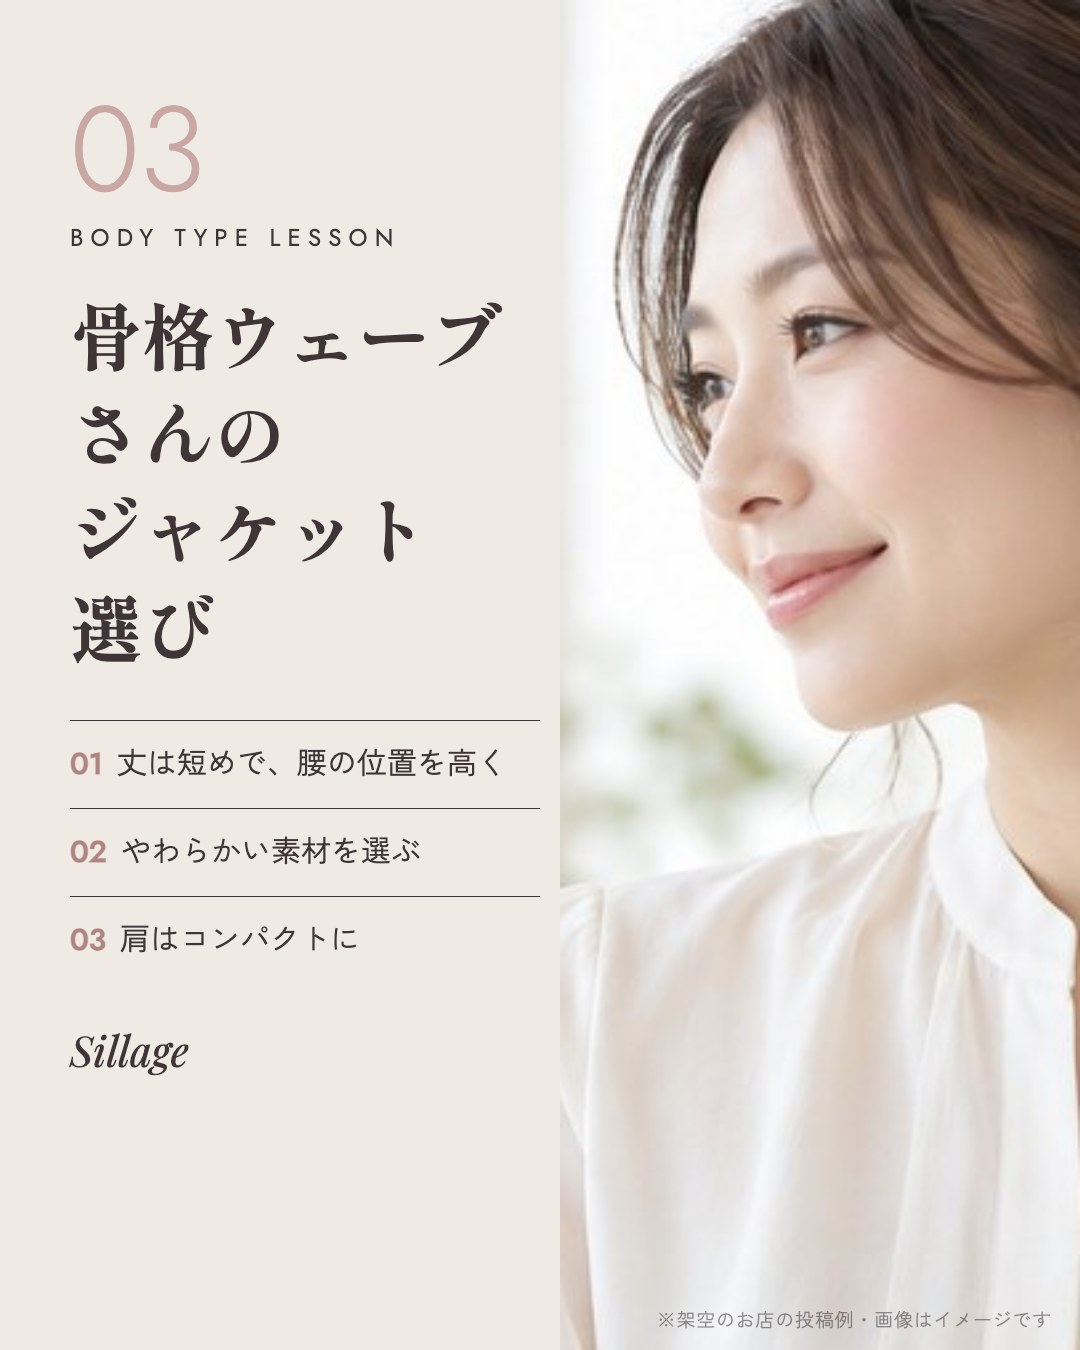
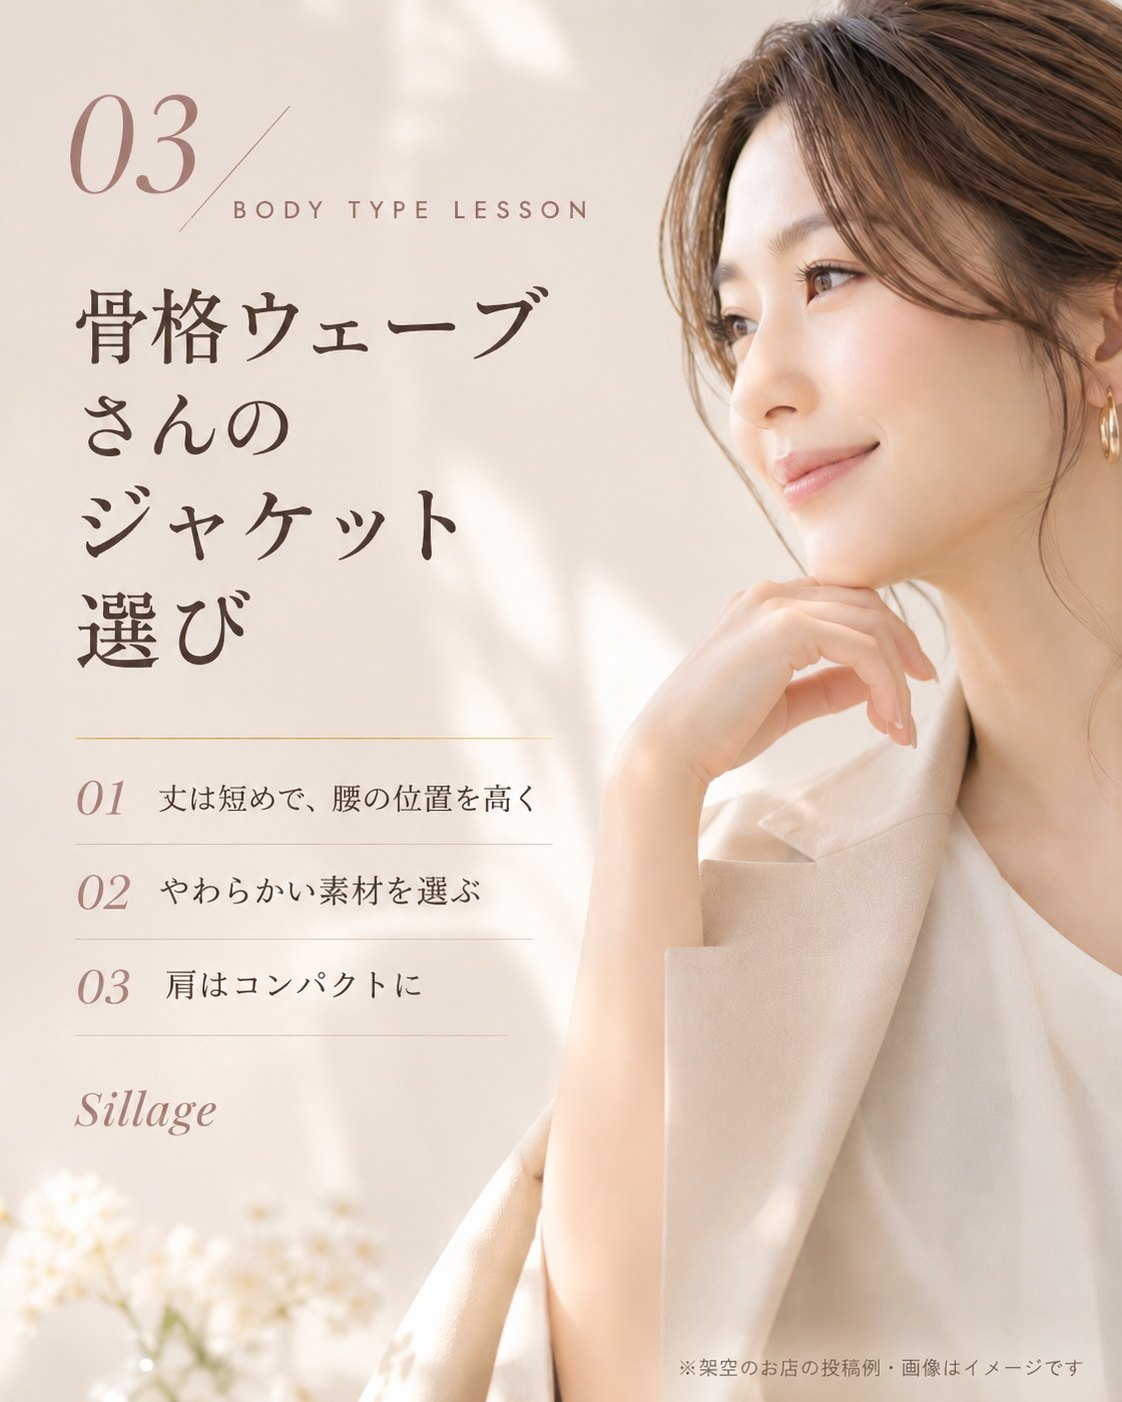
insta 01-03,10-14 GPT remake

diff --git a/samples/insta/index.html b/samples/insta/index.html
@@ -20,7 +20,7 @@ header{display:flex;justify-content:space-between;align-items:center;padding:18p
 .cta{text-align:center;padding:0 20px 30px}.cta a{display:inline-block;background:#7A4E58;color:#fff;border-radius:999px;padding:12px 30px;font-size:14px}</style></head><body>
 <header><a class="brand" href="../../">Muse Web.</a><a class="back" href="../../#service">← サービス一覧へ</a></header>
 <div class="hd"><div class="en">Instagram post</div><h1>インスタ投稿画像</h1><p>保存される内容と、予約につながる一言を。業種ごとに色・文字・レイアウトを変えています。</p><span class="n">サンプル 14点</span></div>
-<div class="grid"><a class="it" href="#v1"><div class="im"><img src="01.jpg" alt="エステサロン｜保存版の夜ケア3ステップ" loading="lazy"></div><div class="bd"><b>エステサロン｜保存版の夜ケア3ステップ</b><span>くすみピンク×明朝・保存したくなる手順</span></div></a><a class="it" href="#v2"><div class="im"><img src="02.jpg" alt="エステサロン｜初回体験のご案内" loading="lazy"></div><div class="bd"><b>エステサロン｜初回体験のご案内</b><span>割引価格を大きく・予約導線つき</span></div></a><a class="it" href="#v3"><div class="im"><img src="03.jpg" alt="エステサロン｜お客さまの声" loading="lazy"></div><div class="bd"><b>エステサロン｜お客さまの声</b><span>写真＋声で安心感を</span></div></a><a class="it" href="#v4"><div class="im"><img src="04.jpg" alt="ネイルサロン｜今月の新作デザイン" loading="lazy"></div><div class="bd"><b>ネイルサロン｜今月の新作デザイン</b><span>ガラスフレンチの手元写真を大きく・明朝で上品に</span></div></a><a class="it" href="#v5"><div class="im"><img src="05.jpg" alt="ネイルサロン｜今週の空き状況" loading="lazy"></div><div class="bd"><b>ネイルサロン｜今週の空き状況</b><span>空き枠を細い罫線の表で見やすく</span></div></a><a class="it" href="#v6"><div class="im"><img src="06.jpg" alt="まつげサロン｜まつげパーマQ&amp;A" loading="lazy"></div><div class="bd"><b>まつげサロン｜まつげパーマQ&amp;A</b><span>よくある質問を落ち着いたカードで</span></div></a><a class="it" href="#v7"><div class="im"><img src="07.jpg" alt="美容室｜乾かし方のコツ" loading="lazy"></div><div class="bd"><b>美容室｜乾かし方のコツ</b><span>番号つきで覚えやすく</span></div></a><a class="it" href="#v8"><div class="im"><img src="08.jpg" alt="美容室｜人気メニュー紹介" loading="lazy"></div><div class="bd"><b>美容室｜人気メニュー紹介</b><span>価格を点線でつないで読みやすく</span></div></a><a class="it" href="#v9"><div class="im"><img src="09.jpg" alt="美容室｜WEB予約のお知らせ" loading="lazy"></div><div class="bd"><b>美容室｜WEB予約のお知らせ</b><span>店内写真の上にシンプルな告知</span></div></a><a class="it" href="#v10"><div class="im"><img src="10.jpg" alt="ジュエリー｜新作コレクション" loading="lazy"></div><div class="bd"><b>ジュエリー｜新作コレクション</b><span>モデル写真で世界観を伝える</span></div></a><a class="it" href="#v11"><div class="im"><img src="11.jpg" alt="タロット占い｜今月の一枚" loading="lazy"></div><div class="bd"><b>タロット占い｜今月の一枚</b><span>夜空色×金のアーチ</span></div></a><a class="it" href="#v12"><div class="im"><img src="12.jpg" alt="ファッションコンサル｜骨格別の選び方" loading="lazy"></div><div class="bd"><b>ファッションコンサル｜骨格別の選び方</b><span>雑誌風の番号レイアウト</span></div></a><a class="it" href="#v13"><div class="im"><img src="13.jpg" alt="脱毛サロン｜回数の目安" loading="lazy"></div><div class="bd"><b>脱毛サロン｜回数の目安</b><span>写真なしでも伝わる図解</span></div></a><a class="it" href="#v14"><div class="im"><img src="14.jpg" alt="ヘッドスパ｜メニューと空き枠" loading="lazy"></div><div class="bd"><b>ヘッドスパ｜メニューと空き枠</b><span>夜のくつろぎ感を写真で</span></div></a></div>
+<div class="grid"><a class="it" href="#v1"><div class="im"><img src="01.jpg" alt="エステサロン｜保存版の夜ケア3ステップ" loading="lazy"></div><div class="bd"><b>エステサロン｜保存版の夜ケア3ステップ</b><span>くすみピンク×明朝・保存したくなる手順</span></div></a><a class="it" href="#v2"><div class="im"><img src="02.jpg" alt="エステサロン｜初回体験のご案内" loading="lazy"></div><div class="bd"><b>エステサロン｜初回体験のご案内</b><span>割引価格を大きく・予約導線つき</span></div></a><a class="it" href="#v3"><div class="im"><img src="03.jpg" alt="エステサロン｜お客さまの声" loading="lazy"></div><div class="bd"><b>エステサロン｜お客さまの声</b><span>写真＋声で安心感を</span></div></a><a class="it" href="#v4"><div class="im"><img src="04.jpg" alt="ネイルサロン｜今月の新作デザイン" loading="lazy"></div><div class="bd"><b>ネイルサロン｜今月の新作デザイン</b><span>ガラスフレンチの手元写真を大きく・明朝で上品に</span></div></a><a class="it" href="#v5"><div class="im"><img src="05.jpg" alt="ネイルサロン｜今週の空き状況" loading="lazy"></div><div class="bd"><b>ネイルサロン｜今週の空き状況</b><span>空き枠を細い罫線の表で見やすく</span></div></a><a class="it" href="#v6"><div class="im"><img src="06.jpg" alt="まつげサロン｜まつげパーマQ&amp;A" loading="lazy"></div><div class="bd"><b>まつげサロン｜まつげパーマQ&amp;A</b><span>よくある質問を落ち着いたカードで</span></div></a><a class="it" href="#v7"><div class="im"><img src="07.jpg" alt="美容室｜乾かし方のコツ" loading="lazy"></div><div class="bd"><b>美容室｜乾かし方のコツ</b><span>番号つきで覚えやすく</span></div></a><a class="it" href="#v8"><div class="im"><img src="08.jpg" alt="美容室｜人気メニュー紹介" loading="lazy"></div><div class="bd"><b>美容室｜人気メニュー紹介</b><span>価格を点線でつないで読みやすく</span></div></a><a class="it" href="#v9"><div class="im"><img src="09.jpg" alt="美容室｜WEB予約のお知らせ" loading="lazy"></div><div class="bd"><b>美容室｜WEB予約のお知らせ</b><span>店内写真の上にシンプルな告知</span></div></a><a class="it" href="#v10"><div class="im"><img src="10.jpg" alt="ジュエリー｜新作コレクション" loading="lazy"></div><div class="bd"><b>ジュエリー｜新作コレクション</b><span>モデル写真で世界観を伝える</span></div></a><a class="it" href="#v11"><div class="im"><img src="11.jpg" alt="タロット占い｜今月の一枚" loading="lazy"></div><div class="bd"><b>タロット占い｜今月の一枚</b><span>くすんだ夜空色×金のアーチ</span></div></a><a class="it" href="#v12"><div class="im"><img src="12.jpg" alt="ファッションコンサル｜骨格別の選び方" loading="lazy"></div><div class="bd"><b>ファッションコンサル｜骨格別の選び方</b><span>雑誌風の番号レイアウト</span></div></a><a class="it" href="#v13"><div class="im"><img src="13.jpg" alt="脱毛サロン｜回数の目安" loading="lazy"></div><div class="bd"><b>脱毛サロン｜回数の目安</b><span>写真なしでも伝わる回数の目安</span></div></a><a class="it" href="#v14"><div class="im"><img src="14.jpg" alt="ヘッドスパ｜メニューと空き枠" loading="lazy"></div><div class="bd"><b>ヘッドスパ｜メニューと空き枠</b><span>夜のくつろぎ感を写真で・空き枠つき</span></div></a></div>
 <div class="lb" id="v1"><a class="x" href="#" aria-label="閉じる"></a><img src="01.jpg" alt="エステサロン｜保存版の夜ケア3ステップ"></div><div class="lb" id="v2"><a class="x" href="#" aria-label="閉じる"></a><img src="02.jpg" alt="エステサロン｜初回体験のご案内"></div><div class="lb" id="v3"><a class="x" href="#" aria-label="閉じる"></a><img src="03.jpg" alt="エステサロン｜お客さまの声"></div><div class="lb" id="v4"><a class="x" href="#" aria-label="閉じる"></a><img src="04.jpg" alt="ネイルサロン｜今月の新作デザイン"></div><div class="lb" id="v5"><a class="x" href="#" aria-label="閉じる"></a><img src="05.jpg" alt="ネイルサロン｜今週の空き状況"></div><div class="lb" id="v6"><a class="x" href="#" aria-label="閉じる"></a><img src="06.jpg" alt="まつげサロン｜まつげパーマQ&amp;A"></div><div class="lb" id="v7"><a class="x" href="#" aria-label="閉じる"></a><img src="07.jpg" alt="美容室｜乾かし方のコツ"></div><div class="lb" id="v8"><a class="x" href="#" aria-label="閉じる"></a><img src="08.jpg" alt="美容室｜人気メニュー紹介"></div><div class="lb" id="v9"><a class="x" href="#" aria-label="閉じる"></a><img src="09.jpg" alt="美容室｜WEB予約のお知らせ"></div><div class="lb" id="v10"><a class="x" href="#" aria-label="閉じる"></a><img src="10.jpg" alt="ジュエリー｜新作コレクション"></div><div class="lb" id="v11"><a class="x" href="#" aria-label="閉じる"></a><img src="11.jpg" alt="タロット占い｜今月の一枚"></div><div class="lb" id="v12"><a class="x" href="#" aria-label="閉じる"></a><img src="12.jpg" alt="ファッションコンサル｜骨格別の選び方"></div><div class="lb" id="v13"><a class="x" href="#" aria-label="閉じる"></a><img src="13.jpg" alt="脱毛サロン｜回数の目安"></div><div class="lb" id="v14"><a class="x" href="#" aria-label="閉じる"></a><img src="14.jpg" alt="ヘッドスパ｜メニューと空き枠"></div>
 <p class="note">※掲載しているのは、すべて架空のお店でつくった制作サンプルです。写真の一部は生成AIで作成したイメージです。</p>
 <div class="cta"><a href="../../#contact">ご依頼・ご相談はこちら</a></div>
